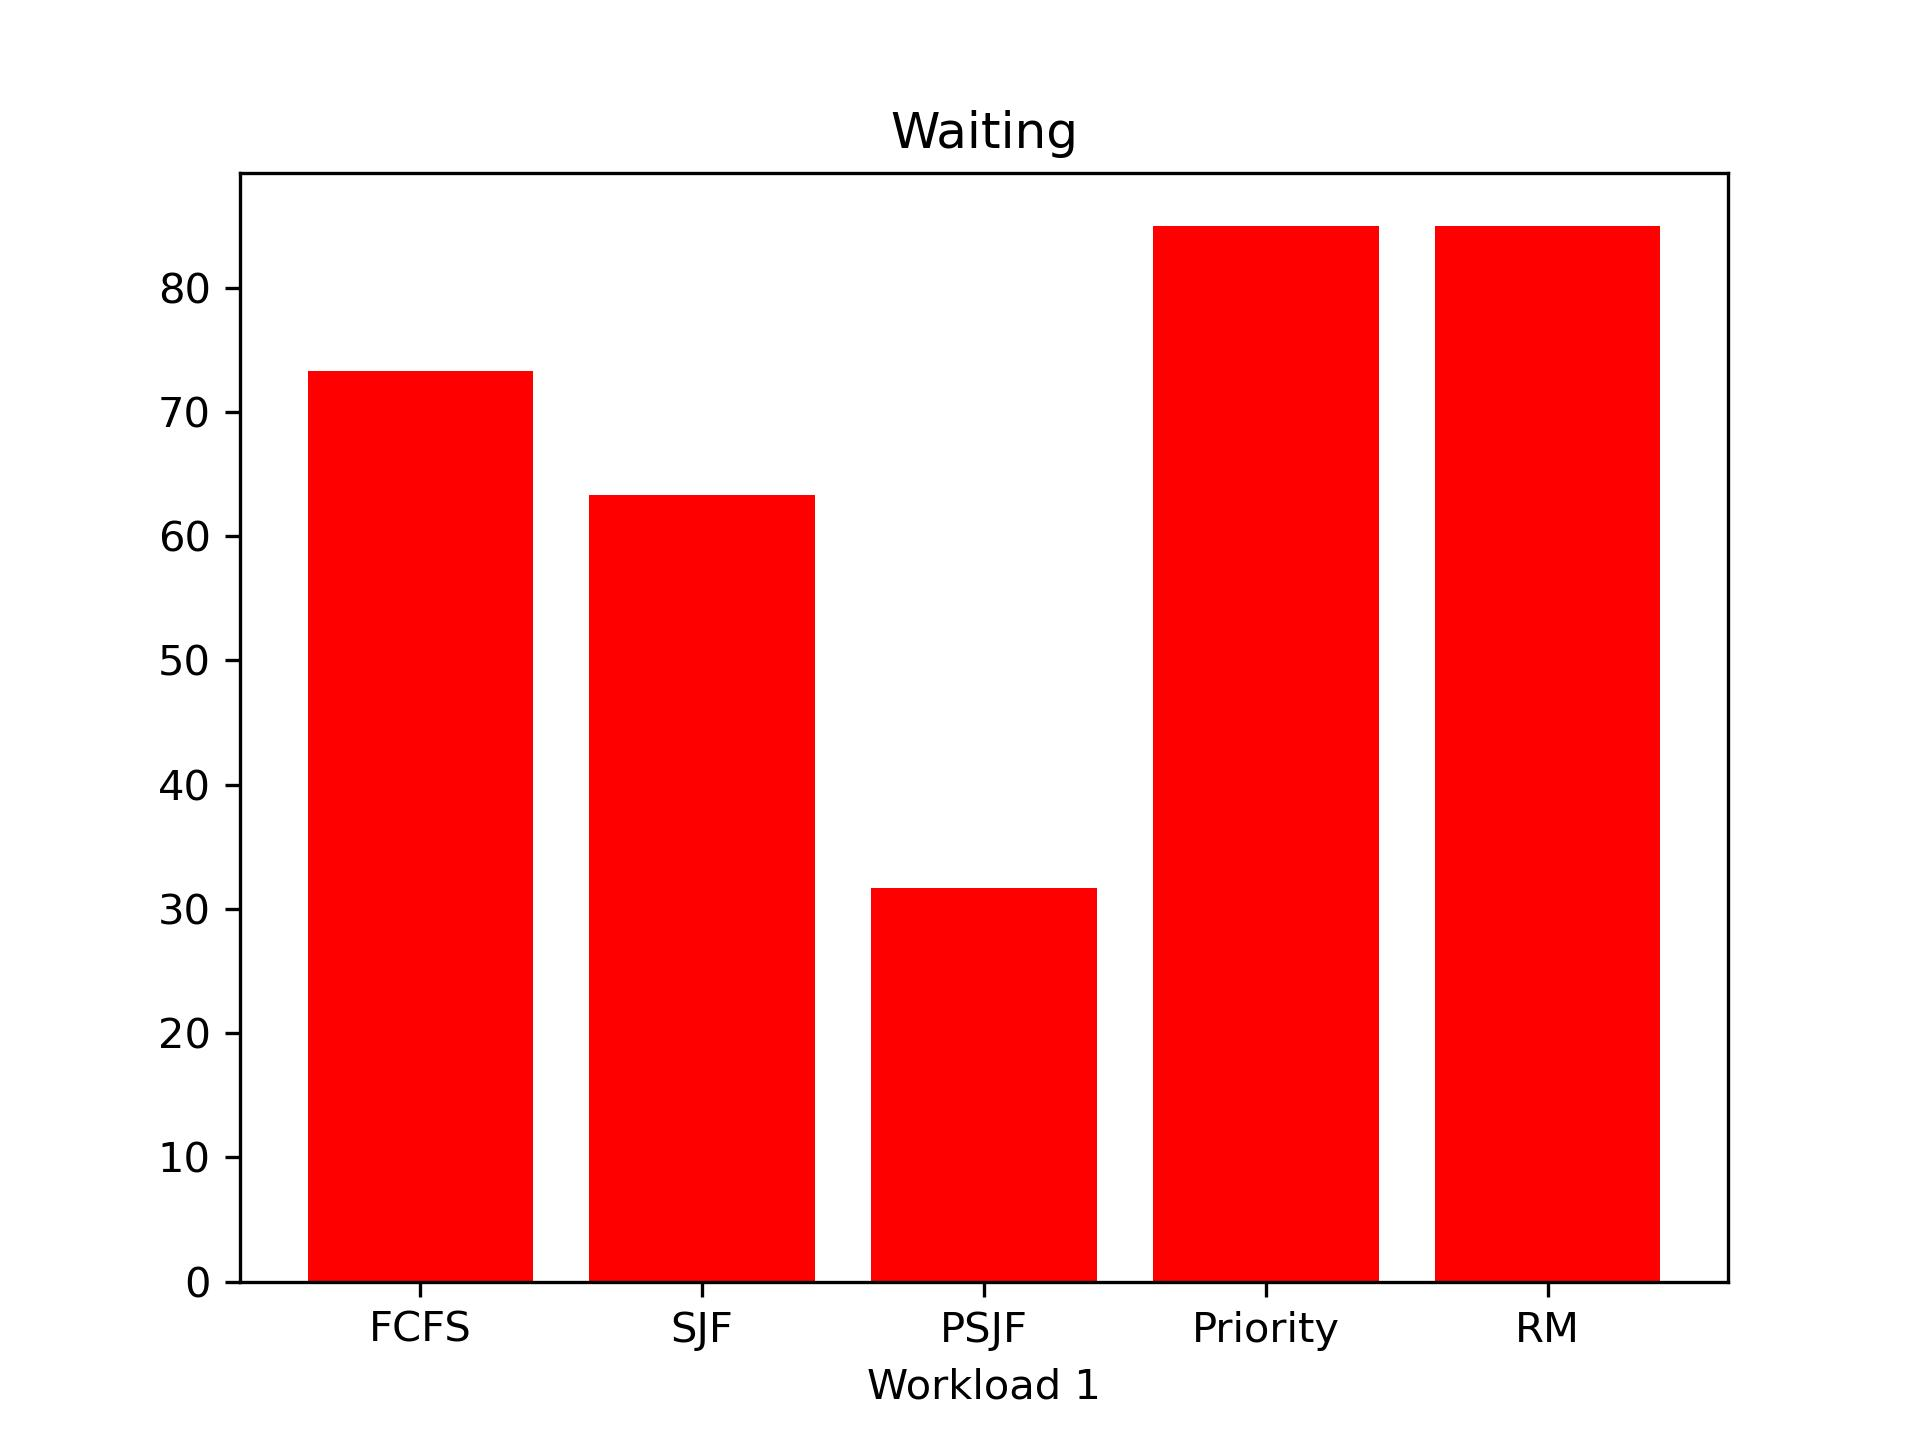
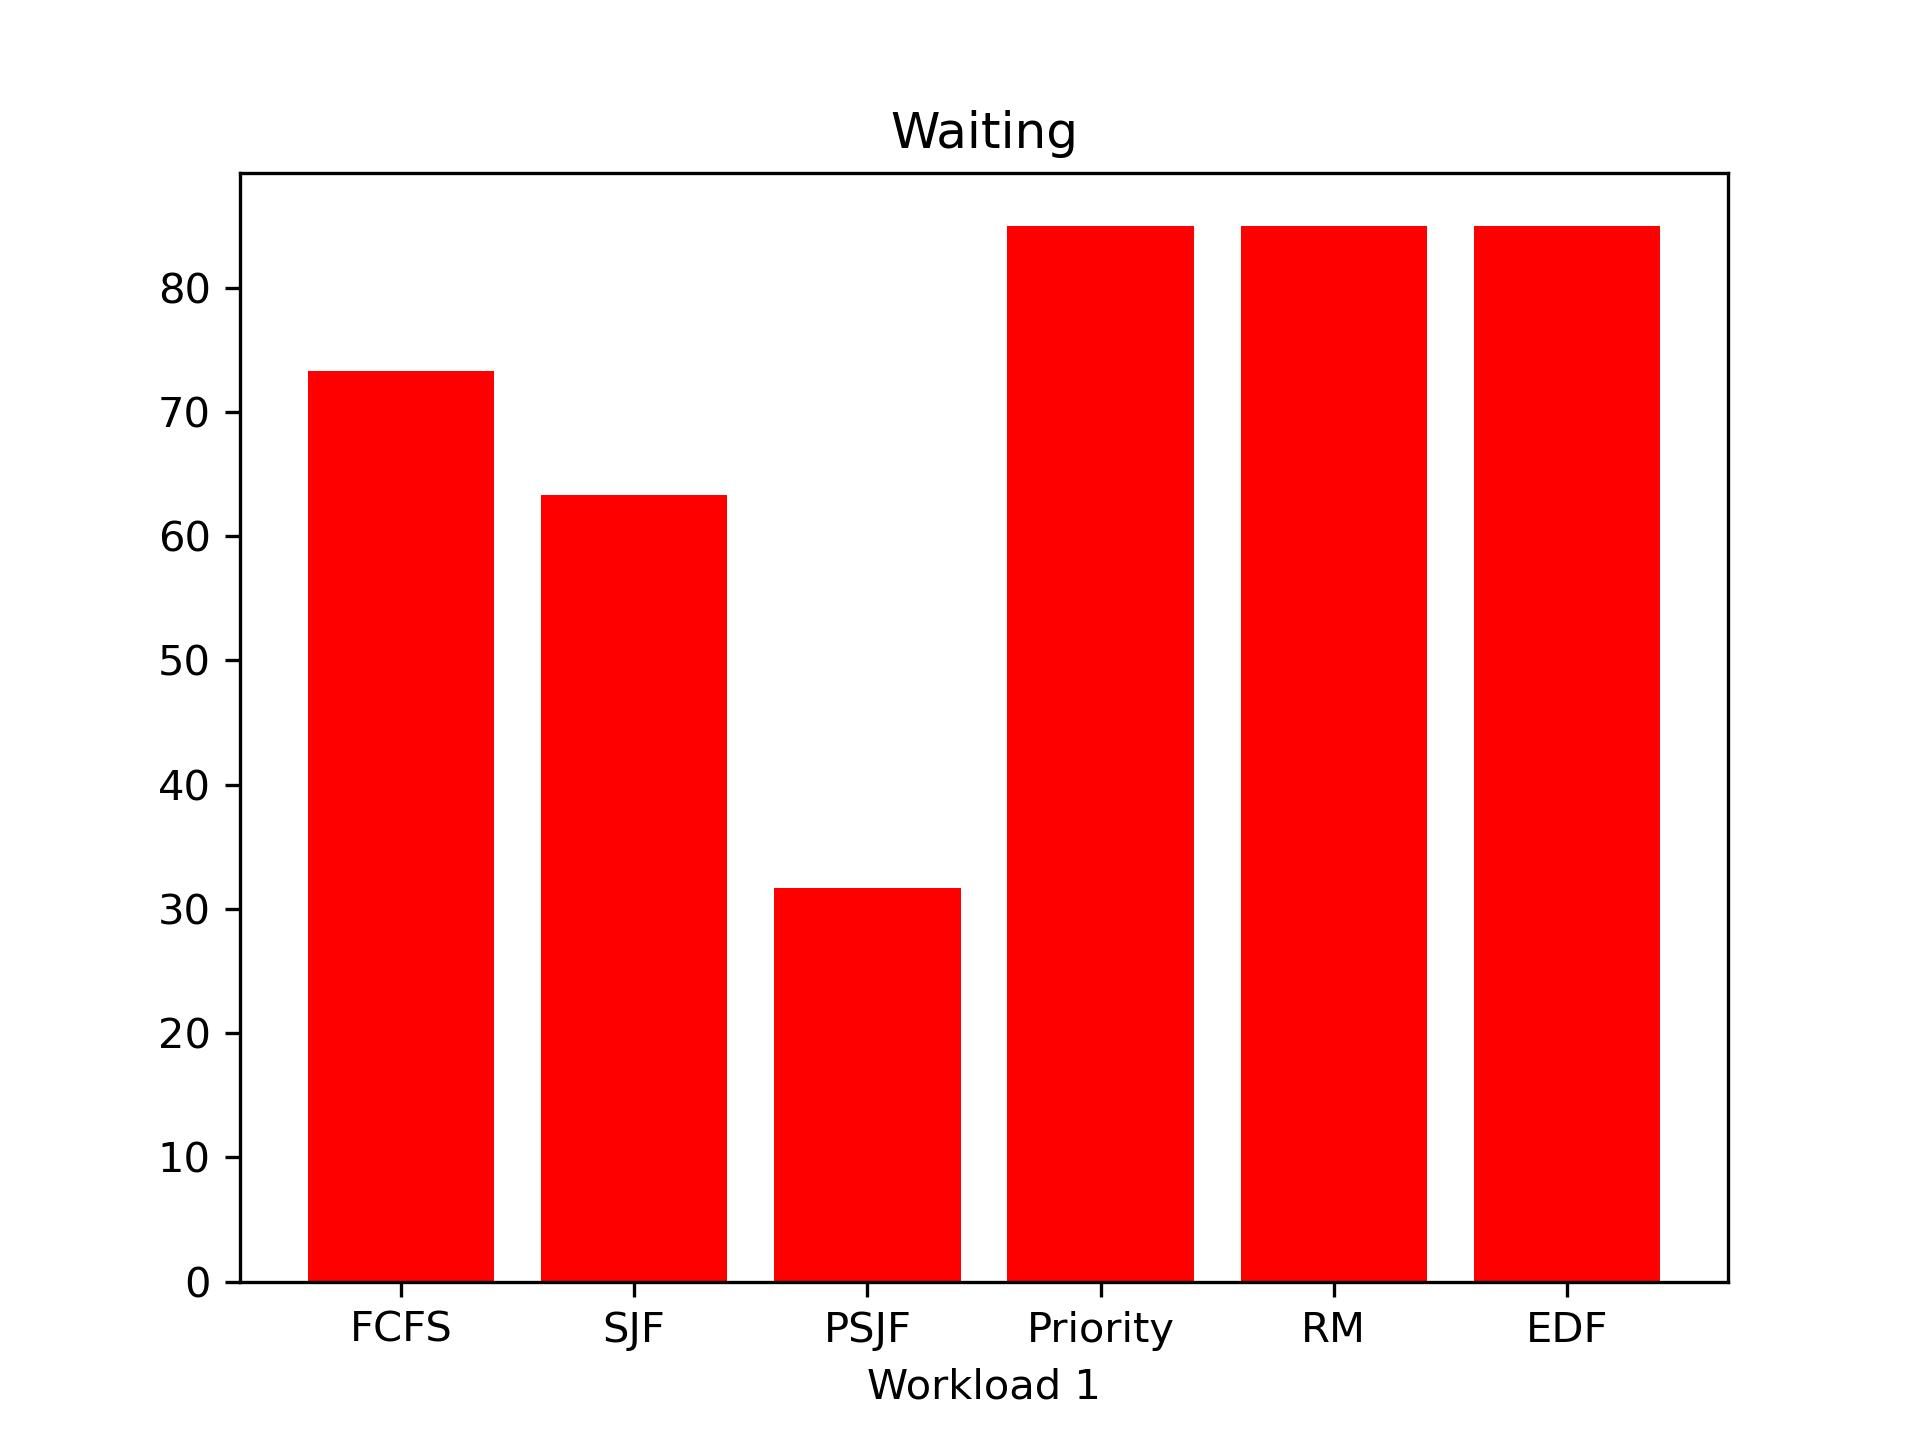
Final

diff --git a/main.go b/main.go
@@ -4,10 +4,10 @@ import (
 	"sim/core"
 	"sim/cpu"
 	"sim/log"
-	"sim/math"
 	"sim/sched"
 
 	"fmt"
+	"math"
 )
 
 func addJobs(workload *[][]core.Proc) {
@@ -15,6 +15,21 @@ func addJobs(workload *[][]core.Proc) {
 	sched.SJFJobs(workload)
 	sched.PSJFJobs(workload)
 	sched.PriorityJobs(workload)
+	sched.RMJobs(workload)
+}
+
+// We are going to make the assumption that all the jobs
+// are generated by the first 2 processes in the jobs list.
+// To make sure that we can compute de jobs we are going to use
+// the following formula: sum(burst[i] / period[i]) < (2^(1 / n) - 1) * n
+// Where n is the number of generating processes (in this case 2)
+// And i goes from [0, n) (in this case from [0, 1) )
+func canBeComputed(jobs []core.Proc) bool {
+	lhs := float64(jobs[0].Burst) / float64(jobs[0].Period)
+	lhs += float64(jobs[1].Burst) / float64(jobs[1].Period)
+
+	rhs := 2*math.Sqrt(2) - 2
+	return lhs < rhs
 }
 
 func main() {
@@ -24,7 +39,7 @@ func main() {
 		sched.NewPSJF("PSJF"),
 		sched.NewPriority("Priority"),
 		sched.NewRM("RM"),
-		// sched.NewEDF("EDF"),
+		sched.NewEDF("EDF"),
 		// sched.NewSJF("RR"),
 	}
 
@@ -35,24 +50,17 @@ func main() {
 		fmt.Printf("Testing %s\n", algo.GetName())
 		fmt.Println("============")
 		for i, jobs := range workload {
-			duration := -1
-			if algo.IsRealTime() {
-				for _, job := range jobs {
-					if job.Period == -1 {
-						break
-					}
-					if duration == -1 {
-						duration = 1
-					}
-					duration = math.LCM(duration, job.Period)
-				}
+			cpu := cpu.NewCPU(algo)
+			fmt.Printf("Workload %d:\n", i)
+			if algo.IsRealTime() && !canBeComputed(jobs) {
+				log.Debug("This workload can't be computed with: %s:\n", algo.GetName())
+				fmt.Printf("Usage: %.2f%%\n", 0.00)
+				fmt.Printf("Turnaround time: %.2f\n", 0.00)
+				fmt.Printf("Response time: %.2f\n", 0.00)
+				fmt.Printf("Waiting time: %.2f\n", 0.00)
+				continue
 			}
 
-			log.Debug("LCM: %d\n", duration)
-
-			fmt.Printf("Workload %d:\n", i)
-
-			cpu := cpu.NewCPU(algo)
 			procIdx := 0
 			for !cpu.IsDone() || procIdx < len(jobs) {
 				for procIdx < len(jobs) && jobs[procIdx].Arrive == cpu.GetTimer() {
@@ -61,13 +69,9 @@ func main() {
 				}
 
 				cpu.Tick()
-
-				if duration != -1 && cpu.GetTimer() >= duration {
-					break
-				}
 			}
 
-			// log.Assert(cpu.Procs.Len() == 0, "CPU hasn't finished its jobs")
+			log.Assert(cpu.Procs.Len() == 0, "CPU hasn't finished its jobs")
 
 			fmt.Printf("Usage: %.2f%%\n", cpu.Usage())
 			fmt.Printf("Turnaround time: %.2f\n", cpu.TurnaroundTime())

diff --git a/cpu/cpu.go b/cpu/cpu.go
@@ -61,9 +61,11 @@ func (self *CPU) AddProc(proc core.Proc) {
 }
 
 func (self *CPU) loadProc() {
-	self.currProc = heap.Pop(self.Procs).(*core.Proc)
-	self.statTimes[self.currProc.Pid]["response"] = self.timer - self.currProc.Arrive
-	log.Debug("[T=%d] Loading proc PID: %d\n", self.timer, self.currProc.Pid)
+    if self.Procs.Len() > 0 {
+        self.currProc = heap.Pop(self.Procs).(*core.Proc)
+        self.statTimes[self.currProc.Pid]["response"] = self.timer - self.currProc.Arrive
+        log.Debug("[T=%d] Loading proc PID: %d\n", self.timer, self.currProc.Pid)
+    }
 }
 
 func (self *CPU) unloadProc() {
@@ -97,7 +99,6 @@ func (self *CPU) procDone() bool {
 
 func (self *CPU) Tick() {
 	if self.preemptive && self.event {
-		log.Debug("[T=%d] Preemptive: [%t] | Event: [%t]\n", self.timer, self.preemptive, self.event)
 		if self.currProc != nil {
 			self.changeProc()
 		}
@@ -108,7 +109,7 @@ func (self *CPU) Tick() {
 		self.loadProc()
 	}
 
-	if self.procDone() {
+	if self.currProc != nil && self.procDone() {
 		self.statTimes[self.currProc.Pid]["turnaround"] = self.timer - self.currProc.Arrive
 		self.statTimes[self.currProc.Pid]["wait"] = self.timer - self.currProc.Arrive - self.currProc.InitBurst
 

diff --git a/sched/rate_monotonic.go b/sched/rate_monotonic.go
@@ -28,3 +28,32 @@ func NewRM(name string) RM {
 		name,
 	}
 }
+
+func RMJobs(workload *[][]core.Proc) {
+	jobs := []core.Proc{
+		*core.NewProc(0, 35, 0, 0, 100),
+		*core.NewProc(1, 20, 0, 0, 50),
+		*core.NewProc(2, 20, 50, 0, 50),
+		*core.NewProc(3, 20, 100, 0, 50),
+		*core.NewProc(4, 35, 100, 0, 100),
+
+	}
+	*workload = append(*workload, jobs)
+
+	jobs = []core.Proc{
+		*core.NewProc(0, 25, 0, 0, 50),
+		*core.NewProc(1, 35, 0, 0, 80),
+		*core.NewProc(2, 25, 50, 0, 50),
+		*core.NewProc(3, 35, 80, 0, 80),
+		*core.NewProc(4, 25, 100, 0, 50),
+		*core.NewProc(5, 25, 150, 0, 50),
+		*core.NewProc(6, 35, 160, 0, 80),
+		*core.NewProc(7, 25, 200, 0, 50),
+		*core.NewProc(8, 35, 240, 0, 80),
+		*core.NewProc(9, 25, 250, 0, 50),
+		*core.NewProc(10, 35, 320, 0, 80),
+		*core.NewProc(11, 35, 400, 0, 80),
+	}
+
+	*workload = append(*workload, jobs)
+}

diff --git a/README.md b/README.md
@@ -9,9 +9,9 @@ Implemented algorithms:
  - [x] Shortest Job First (SJF)
  - [x] Preemptive Shortest Job First (PSJF)
  - [x] Priority based
+ - [x] Rate monotonic (RM)
+ - [x] Earliest Deadline First (EDF)
  - [ ] Round Robin (RR)
- - [ ] Rate monotonic (RM)
- - [ ] Earliest Deadline First (EDF)
 
 # Metrics
 
